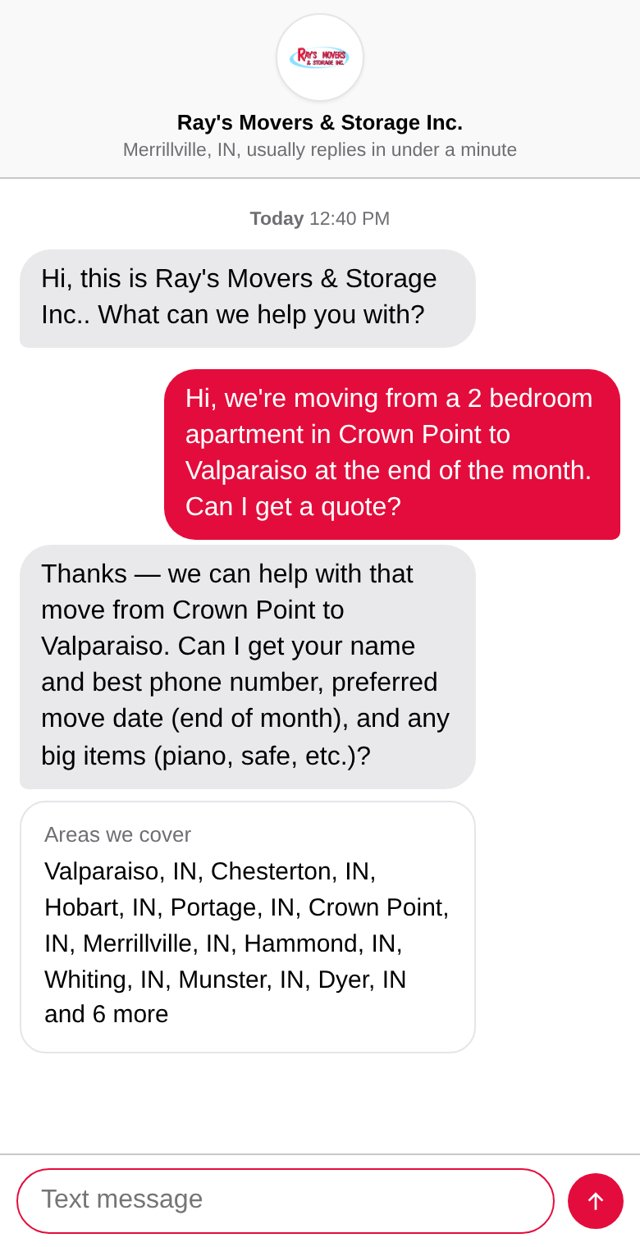
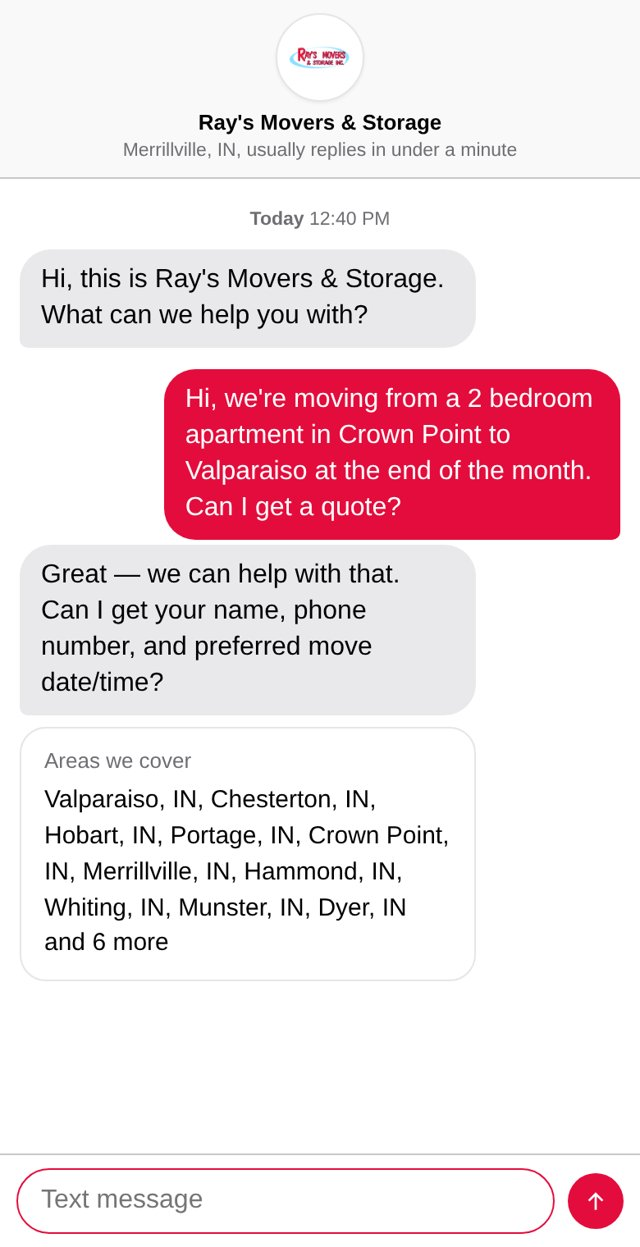
rays-movers chat

Changed region(s): [[0.0625, 0.4266, 0.6875, 0.8228], [0.0625, 0.2438, 0.6562, 0.2743], [0.2812, 0.0914, 0.7188, 0.1219]]

diff --git a/rays-movers/index.html b/rays-movers/index.html
@@ -1,13 +1,13 @@
 <!doctype html><html lang="en"><head><meta charset="utf-8"><meta name="viewport" content="width=device-width,initial-scale=1">
-<meta name="robots" content="noindex,nofollow"><title>A website assistant for Ray's Movers &amp; Storage Inc.</title><style>body{margin:0;font-family:-apple-system,Segoe UI,Roboto,sans-serif;background:#f4f5f7;color:#1b2430}
+<meta name="robots" content="noindex,nofollow"><title>A website assistant for Ray's Movers &amp; Storage</title><style>body{margin:0;font-family:-apple-system,Segoe UI,Roboto,sans-serif;background:#f4f5f7;color:#1b2430}
 main{max-width:760px;margin:0 auto;padding:28px 18px 40px}h1{font-size:22px;line-height:1.3;margin:0 0 8px}
 p{line-height:1.55;color:#4a5566;margin:0 0 18px}.due{display:flex;gap:14px;justify-content:center;margin:0 0 22px}
 .due figure{margin:0;flex:1;max-width:340px}.due img,img.shot{width:100%;display:block;border-radius:18px;box-shadow:0 14px 40px rgba(15,25,45,.2)}
 img.shot{max-width:360px;margin:0 auto 22px}figcaption{text-align:center;font-weight:700;margin-top:8px;color:#4a5566}
 a.btn{display:block;max-width:420px;margin:0 auto;text-align:center;background:#1f66e0;color:#fff;text-decoration:none;font-weight:700;padding:15px;border-radius:14px;font-size:16px}
 small{display:block;text-align:center;color:#7a8596;margin-top:16px;font-size:12.5px}</style></head><body><main>
-<h1>A website assistant for Ray's Movers &amp; Storage Inc.</h1><p>It answers your website visitors instantly, day or night, using only what's on your website, and sends you their name, number and what they need.</p><img class="shot" src="screenshot.jpg" alt="Preview of the assistant on your website">
-<a class="btn" href="https://wpsani.store/demo/d/eddfbdfd">Try it live</a>
+<h1>A website assistant for Ray's Movers &amp; Storage</h1><p>It answers your website visitors instantly, day or night, using only what's on your website, and sends you their name, number and what they need.</p><img class="shot" src="screenshot.jpg" alt="Preview of the assistant on your website">
+<a class="btn" href="https://wpsani.store/demo/d/cf839955">Try it live</a>
 <small>Private demo built by Federico Sanua, independent web developer, sanuafederico@gmail.com</small>
-<img src="https://wpsani.store/demo/p/eddfbdfd.gif" width="1" height="1" alt="" style="position:absolute;left:-9999px">
+<img src="https://wpsani.store/demo/p/cf839955.gif" width="1" height="1" alt="" style="position:absolute;left:-9999px">
 </main></body></html>
